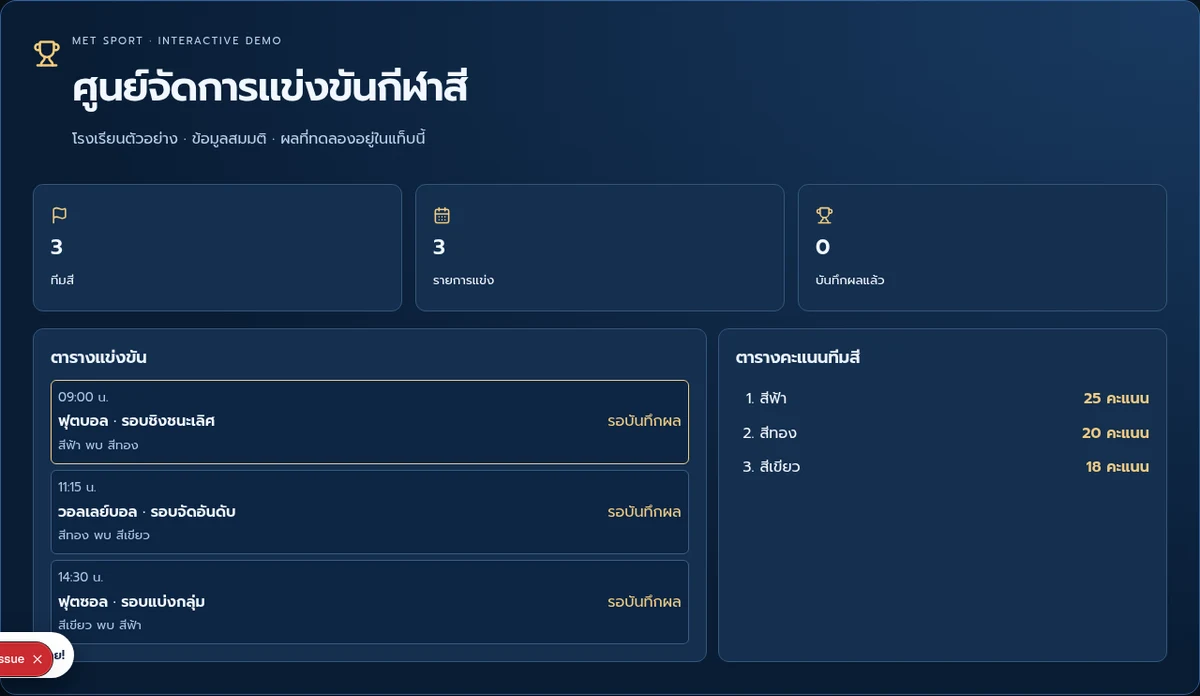
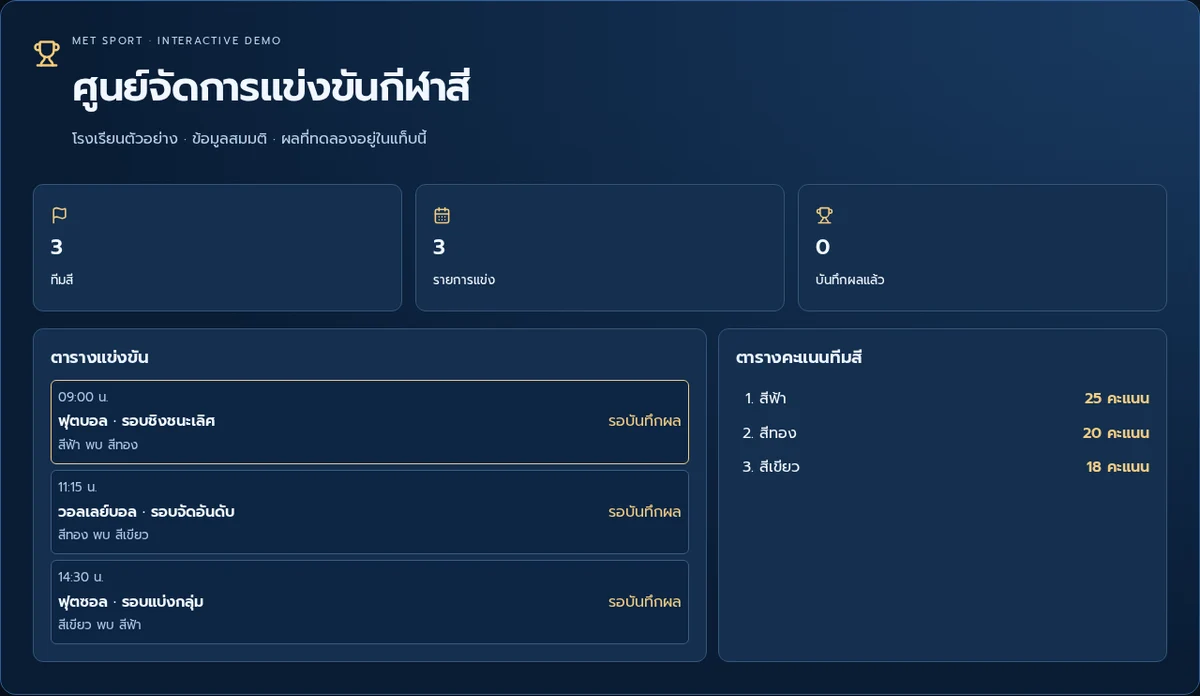
Curate Education demos and scoped school package quotes

diff --git a/education-2570/index.html b/education-2570/index.html
@@ -33,7 +33,7 @@
     </form>
   </header>
   <main id="main" tabindex="-1"><!--APP--></main>
-  <footer class="site-footer"><div class="container footer-grid"><div><a class="brand" href="#/">EDUCATION <b>2570</b></a><p>ซอฟต์แวร์ที่เติบโตไปพร้อมกับโรงเรียนของคุณ</p><p class="muted">จัดจำหน่ายและออกเอกสารในนาม ร้าน พ.สมนึก 2&amp;3<br>ตลาดสดอำเภอสตึก จ.บุรีรัมย์ · พัฒนาโดย WORAMET AI LAB<br>รองรับการจัดซื้อวิธีเฉพาะเจาะจงตามระเบียบและเงื่อนไขของสถานศึกษา</p><a href="tel:0843232324">โทร 084-3232324</a><a href="https://lin.ee/Vgg2m3N">LINE OA @125cbuuu</a><p class="muted">พร้อมเข้าสาธิตระบบถึงโรงเรียนในพื้นที่ อ.สตึก และ จ.บุรีรัมย์</p></div><div><strong>สำรวจแพลตฟอร์ม</strong><a href="#/catalog">แคตตาล็อกซอฟต์แวร์</a><a href="#/compare">เปรียบเทียบโปรแกรม</a><a href="#/quote">ขอใบเสนอราคา</a></div><div><strong>บริการและการใช้งาน</strong><a href="#/help">ศูนย์ช่วยเหลือ</a><a href="#/manual">คู่มือการใช้งาน</a><a href="#/account">บัญชีลูกค้า / แจ้งปัญหา</a></div></div><div class="container footer-bottom"><span>© Education 2570 · พ.สมนึก 2&3</span><span>ภาษาไทย · THB · เวลาไทย (Asia/Bangkok)</span></div></footer>
+  <footer class="site-footer"><div class="container footer-grid"><div><a class="brand" href="#/">EDUCATION <b>2570</b></a><p>ซอฟต์แวร์ที่เติบโตไปพร้อมกับโรงเรียนของคุณ</p><p class="muted">จัดจำหน่ายและออกเอกสารในนาม ร้าน พ.สมนึก 2&amp;3<br>ตลาดสดอำเภอสตึก จ.บุรีรัมย์ · พัฒนาโดย WORAMET AI LAB<br>เอกสารประกอบการจัดซื้อจัดทำตามข้อตกลง โปรดให้ฝ่ายพัสดุตรวจเงื่อนไขของสถานศึกษาก่อน</p><a href="tel:0843232324">โทร 084-3232324</a><a href="https://lin.ee/Vgg2m3N">LINE OA @125cbuuu</a><p class="muted">สอบถามนัดสาธิตในพื้นที่ อ.สตึก และ จ.บุรีรัมย์</p></div><div><strong>สำรวจแพลตฟอร์ม</strong><a href="#/catalog">แคตตาล็อกซอฟต์แวร์</a><a href="#/compare">เปรียบเทียบโปรแกรม</a><a href="#/quote">ขอใบเสนอราคา</a></div><div><strong>บริการและการใช้งาน</strong><a href="#/help">ศูนย์ช่วยเหลือ</a><a href="#/manual">คู่มือการใช้งาน</a><a href="#/account">บัญชีลูกค้า / แจ้งปัญหา</a></div></div><div class="container footer-bottom"><span>© Education 2570 · พ.สมนึก 2&3</span><span>ภาษาไทย · THB · เวลาไทย (Asia/Bangkok)</span></div></footer>
 
   <div class="market-float no-print">
     <button class="market-float-chat" type="button" data-market-open="market-chat-dialog" aria-haspopup="dialog"><svg class="market-icon" aria-hidden="true" viewBox="0 0 24 24" fill="none" stroke="currentColor" stroke-width="1.8" stroke-linecap="round" stroke-linejoin="round"><rect x="4" y="7" width="16" height="13" rx="4"/><path d="M12 7V3m-3 9h.01M15 12h.01M9 16h6M2 12v3m20-3v3"/></svg><span>🤖 ถามได้เลย!</span></button>
@@ -43,7 +43,7 @@
     <a href="#/"><span><svg class="market-icon" aria-hidden="true" viewBox="0 0 24 24" fill="none" stroke="currentColor" stroke-width="1.8" stroke-linecap="round" stroke-linejoin="round"><path d="m3 11 9-8 9 8M5 10v10h14V10M10 20v-5h4v5"/></svg></span><span>หน้าแรก</span></a>
 <a href="#/catalog"><span><svg class="market-icon" aria-hidden="true" viewBox="0 0 24 24" fill="none" stroke="currentColor" stroke-width="1.8" stroke-linecap="round" stroke-linejoin="round"><rect x="4" y="4" width="6" height="6" rx="1"/><rect x="14" y="4" width="6" height="6" rx="1"/><rect x="4" y="14" width="6" height="6" rx="1"/><rect x="14" y="14" width="6" height="6" rx="1"/></svg></span><span>ระบบทั้งหมด</span></a>
 <a href="#/quote" class="market-bottom-quote"><span><svg class="market-icon" aria-hidden="true" viewBox="0 0 24 24" fill="none" stroke="currentColor" stroke-width="1.8" stroke-linecap="round" stroke-linejoin="round"><path d="M6 3h9l3 3v15H6zM14 3v4h4M9 12h6m-6 4h6"/></svg></span><span>ขอใบเสนอราคา</span></a>
-<a href="https://store.chaylueklab.com/school-systems#procurement"><span><svg class="market-icon" aria-hidden="true" viewBox="0 0 24 24" fill="none" stroke="currentColor" stroke-width="1.8" stroke-linecap="round" stroke-linejoin="round"><path d="M3 7V5h6l2 2h9v12H3zM7 12h9m-9 4h6"/></svg></span><span>เอกสารเบิกงบ</span></a>
+<a href="https://store.chaylueklab.com/school-systems#procurement-samples"><span><svg class="market-icon" aria-hidden="true" viewBox="0 0 24 24" fill="none" stroke="currentColor" stroke-width="1.8" stroke-linecap="round" stroke-linejoin="round"><path d="M3 7V5h6l2 2h9v12H3zM7 12h9m-9 4h6"/></svg></span><span>เอกสารเบิกงบ</span></a>
     <button type="button" data-market-open="market-contact-dialog" aria-haspopup="dialog"><span><svg class="market-icon" aria-hidden="true" viewBox="0 0 24 24" fill="none" stroke="currentColor" stroke-width="1.8" stroke-linecap="round" stroke-linejoin="round"><path d="M20 11.5a8 8 0 0 1-8 8H4l1.3-4A8 8 0 1 1 20 11.5Z"/><path d="M8.5 11.5h7"/></svg></span><span>ติดต่อเรา</span></button>
   </nav>
   <dialog class="market-dialog" id="market-product-dialog" aria-labelledby="market-dialog-title">
@@ -69,7 +69,7 @@
   </dialog>
   <dialog class="market-dialog" id="market-contact-dialog" aria-labelledby="market-contact-title">
     <form method="dialog" class="market-close-form"><button class="market-close" type="submit" aria-label="ปิดช่องทางติดต่อ">×</button></form>
-    <div class="market-dialog-content"><p class="eyebrow">พ.สมนึก 2&amp;3 · วรเมธ โซลูชัน</p><h2 id="market-contact-title">ติดต่อเรา</h2><p>สอบถามราคา นัดสาธิต หรือแจ้งเอกสารที่ฝ่ายพัสดุต้องใช้ ทีมงานจะช่วยตรวจความพร้อมและขอบเขตงาน</p><p>พร้อมเข้าสาธิตระบบถึงโรงเรียนในพื้นที่ อ.สตึก และ จ.บุรีรัมย์</p><div class="stack-actions"><a class="button" href="https://lin.ee/Vgg2m3N">LINE OA @125cbuuu</a><a class="button secondary" href="tel:0843232324">โทร 084-3232324</a><a class="button" href="https://lin.ee/8qkUbdt">เปิด LINE พ.สมนึก 2&amp;3</a><a class="button secondary" href="#/help">ศูนย์ช่วยเหลือ</a></div></div>
+    <div class="market-dialog-content"><p class="eyebrow">พ.สมนึก 2&amp;3 · วรเมธ โซลูชัน</p><h2 id="market-contact-title">ติดต่อเรา</h2><p>สอบถามราคา นัดสาธิต หรือแจ้งเอกสารที่ฝ่ายพัสดุต้องใช้ ทีมงานจะช่วยตรวจความพร้อมและขอบเขตงาน</p><p>สอบถามนัดสาธิตในพื้นที่ อ.สตึก และ จ.บุรีรัมย์</p><div class="stack-actions"><a class="button" href="https://lin.ee/Vgg2m3N">LINE OA @125cbuuu</a><a class="button secondary" href="tel:0843232324">โทร 084-3232324</a><a class="button" href="https://lin.ee/8qkUbdt">เปิด LINE พ.สมนึก 2&amp;3</a><a class="button secondary" href="#/help">ศูนย์ช่วยเหลือ</a></div></div>
   </dialog>
   <div id="toast" class="toast" role="status" aria-live="polite" hidden></div>
   <noscript><p class="container notice">กรุณาเปิด JavaScript เพื่อค้นหาโปรแกรมและใช้หน้าสาธิต</p></noscript>

diff --git a/education-2570/public/marketplace.css b/education-2570/public/marketplace.css
@@ -124,3 +124,35 @@ h1,h2,h3,.site-header .brand{font-family:var(--market-title)}
  .market-float-chat span{padding-inline:8px}
 }
 @media print{.market-bottom,.market-float,.market-dialog{display:none!important} body{padding-bottom:0}}
+
+/* Keep the public demonstrations distinct from the historical programme library. */
+.market-secondary-grid{margin-top:18px}
+.market-catalog-grid .product-image img{object-fit:cover;object-position:top center}
+.market-paired-actions{display:grid;grid-template-columns:1.25fr 1fr;gap:8px;margin-top:12px}
+.market-paired-actions a{margin:0;white-space:normal;line-height:1.35;text-align:center;justify-content:center;min-height:44px}
+.badge.market-ready{color:#513302;background:#fff0c9}
+.badge.market-stage{color:#183d78;background:#eaf2ff}
+.market-package{margin:22px 0 0;padding:clamp(16px,3vw,27px);border-color:#cbd9ee;background:linear-gradient(150deg,#f0f6ff,#fff)}
+.market-package h2{margin-bottom:2px}
+.market-package .market-price-emphasis{margin:.1rem 0;color:#163473;font-size:clamp(1.2rem,2.3vw,1.55rem);font-weight:700}
+.market-package ul{padding-inline-start:1.25rem}
+.market-package .market-seller{margin:15px 0 0;padding-top:13px;border-top:1px solid #d0ddf0;font-size:.875rem}
+.market-library-results{margin-top:1.4em}
+.market-detail-preview figure{margin:0}
+.market-detail-preview img{display:block;width:100%;height:auto;border:1px solid #d7e3f1;border-radius:12px}
+.market-detail-preview figcaption{margin-top:7px;color:var(--muted);font-size:.82rem}
+@media(max-width:360px){.market-paired-actions{grid-template-columns:1fr}}
+.market-unlisted-demos{margin-bottom:30px}
+.market-unlisted-demos figure{margin:12px 0 6px}
+.market-unlisted-demos img{display:block;width:100%;height:auto;border-radius:9px;border:1px solid #dae4f1}
+.market-unlisted-demos figcaption{margin-top:4px;color:var(--muted);font-size:.78rem}
+@media(max-width:760px){
+ .market-catalog-head{padding:18px 0}
+ .market-catalog-head h1{margin:6px 0;font-size:clamp(21px,6vw,28px)}
+ .market-catalog-head p{font-size:.85rem}
+ .market-catalog-body{padding-top:20px}
+ .market-catalog-body .catalog-layout{gap:15px}
+ .market-catalog-body .filter-sidebar{padding-bottom:9px}
+ .market-catalog-body .filter-sidebar h2{margin:0 0 6px}
+ .market-catalog-body .toolbar{margin-bottom:9px}
+}
